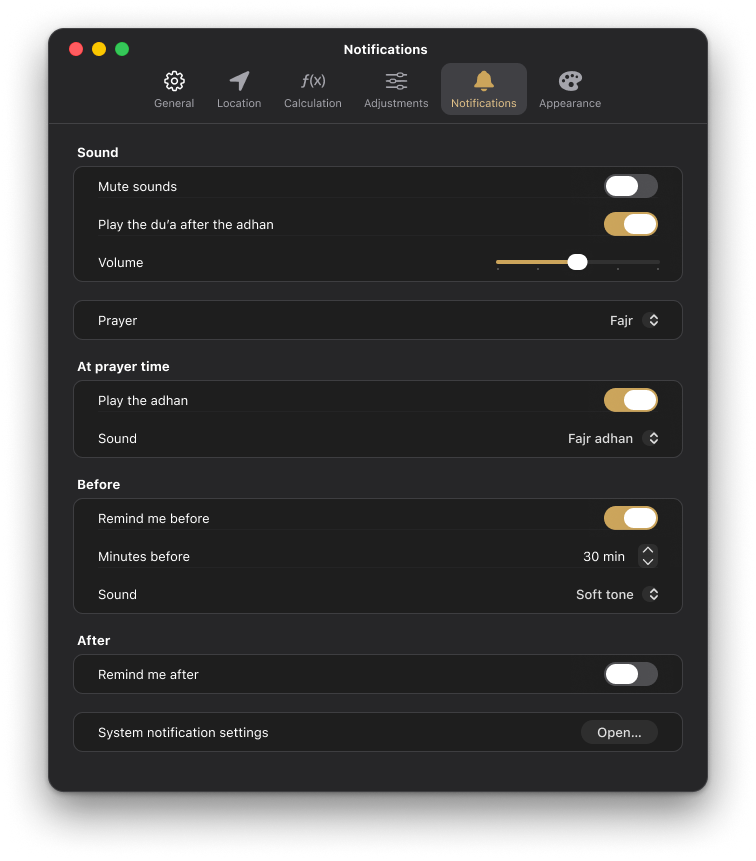
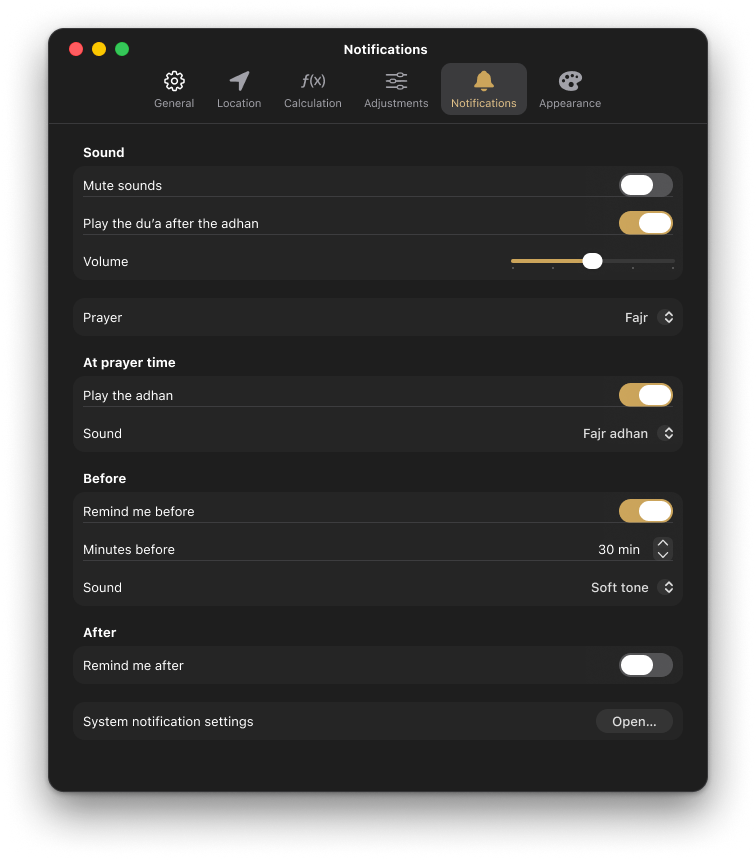
Update separators, the window and Settings sections to macOS 27
iOS 27 and macOS 27 resolve the separators lighter and the macOS window background to the same color as its content: #FFFFFF in light and #1E1E1E in dark. The color files now use those values in all four modes. The warning-on-window exception for Increased contrast is gone, because warning text on the white window reaches 7:1.

With the window and content backgrounds alike, a grouped Form on macOS 27 sets its sections apart with a translucent fill and draws a faint line between rows. Two new color tokens, fill/form-group and separator/form-row, let the Figma screens draw them. The Settings screens' sections are now borderless, with a 12 pt radius, and inset their rows and headers 10 pt, as Form does. The checker tests text contrast on the form group, and the previews are rendered again.

Closes #30.

diff --git a/Design/tokens/check_tokens.py b/Design/tokens/check_tokens.py
@@ -91,7 +91,6 @@ CONTRAST_EXCEPTIONS = {
     ('dark-increased-contrast', 'label/secondary', 'fill/tertiary over phase-neutral/sky-top'): 6.88,
     # Warning orange. At 7:1 it turns brown on light surfaces and pale on dark ones.
     ('light-increased-contrast', 'status/warning', 'bg/secondary'): 6.54,
-    ('light-increased-contrast', 'status/warning', 'bg/window'): 6.57,
     ('light-increased-contrast', 'status/warning', 'fill/tertiary over phase-fajr/sky-top'): 5.35,
     ('light-increased-contrast', 'status/warning', 'fill/tertiary over phase-fajr/sky-bottom'): 5.75,
     ('light-increased-contrast', 'status/warning', 'fill/tertiary over phase-dhuhr/sky-top'): 5.37,
@@ -345,6 +344,8 @@ def contrast_checks(files):
         for p in PHASES:
             for f in ('sky-top', 'sky-bottom', 'tint-subtle'):
                 surfaces[f'phase-{p}/{f}'] = surface(f'phase-{p}/{f}')
+        # A macOS grouped Form section: its translucent fill over the window.
+        surfaces['fill/form-group over bg/window'] = over(col('fill/form-group'), surfaces['bg/window'])
 
         def check(fg, bg, need):
             ratio = contrast(over(col(fg), surfaces[bg]), surfaces[bg])
@@ -369,7 +370,8 @@ def contrast_checks(files):
                 check(f'phase-{p}/text', bg, 4.5)
                 check(f'phase-{p}/tint', bg, 3.0)
         for fg in ('status/error', 'status/warning', 'status/success', 'status/info'):
-            for bg in ('bg/primary', 'bg/secondary', 'bg/grouped-secondary', 'bg/elevated', 'bg/content', 'bg/window'):
+            for bg in ('bg/primary', 'bg/secondary', 'bg/grouped-secondary', 'bg/elevated', 'bg/content', 'bg/window',
+                       'fill/form-group over bg/window'):
                 check(fg, bg, 4.5)
         for fg, chip, bases in CHIPS:
             for base in bases:

diff --git a/Design/tokens/test_check_tokens.py b/Design/tokens/test_check_tokens.py
@@ -428,8 +428,8 @@ class CheckTokensTests(unittest.TestCase):
 
     def test_increased_contrast_never_weakens_a_color(self):
         # A fainter separator than the standard one, though no contrast pair covers separators.
-        self.edit_increased('light', 'separator', 'default', '{primitives.ink.light-18}')
-        self.assert_fails('light-increased-contrast: separator/default stands out less from bg/primary (1.37:1) than in light (1.71:1)')
+        self.edit_increased('light', 'separator', 'default', '{primitives.black.a03}')
+        self.assert_fails('light-increased-contrast: separator/default stands out less from bg/primary (1.07:1) than in light (1.23:1)')
 
     def test_increased_contrast_files_define_the_same_tokens(self):
         self.edit('color.dark-increased-contrast.json', lambda doc: doc['color']['label'].pop('quaternary'))

diff --git a/Design/README.md b/Design/README.md
@@ -124,6 +124,7 @@ for example with an asset catalog color set (see [Increase Contrast](#increase-c
 | `bg/primary`, `bg/secondary`, `bg/tertiary` | `Color(.systemBackground)`, `Color(.secondarySystemBackground)`, `Color(.tertiarySystemBackground)` (iOS) |
 | `bg/grouped`, `bg/grouped-secondary`, `bg/grouped-tertiary` | `Color(.systemGroupedBackground)` and its secondary and tertiary variants (iOS) |
 | `bg/window`, `bg/content` | `Color(nsColor: .windowBackgroundColor)`, `Color(nsColor: .controlBackgroundColor)` (macOS) |
+| `fill/form-group`, `separator/form-row` | Nothing: `Form` with `.formStyle(.grouped)` draws its sections and row lines itself on macOS (`quaternarySystemFill` and `quinaryLabelColor`). The tokens let the Figma screens draw them. |
 | `separator/default` | `.separator` |
 | `separator/opaque` | `Color(.opaqueSeparator)` (iOS) |
 | `fill/primary` … `fill/quaternary` | `.fill`, `.fill.secondary`, `.fill.tertiary`, `.fill.quaternary` |
